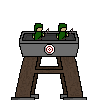
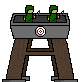
réduire taille fe fleche augmenter taille tours

diff --git a/src/tours.py b/src/tours.py
@@ -13,7 +13,7 @@ class Fleche():
 		self.rotation = right_vec.angle_to(self.vector)
 		self.screen = screen
 		
-		image = pygame.transform.scale(image, (32,8))
+		image = pygame.transform.scale(image, (24,6))
 		self.model = pygame.transform.rotate(image, -self.rotation)
 		screen.blit(self.model, cos)
 		
